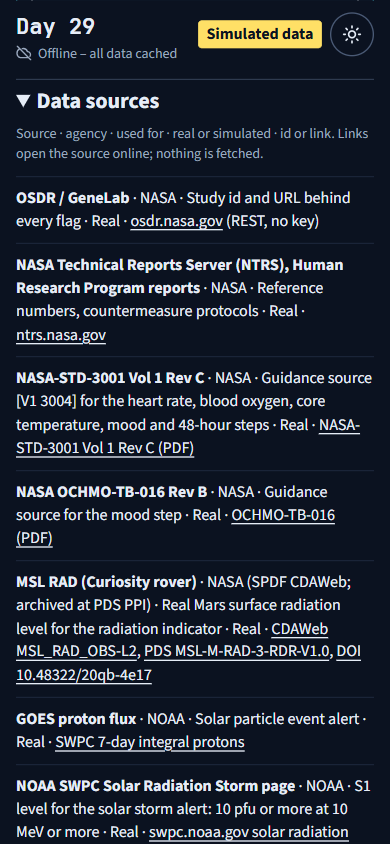
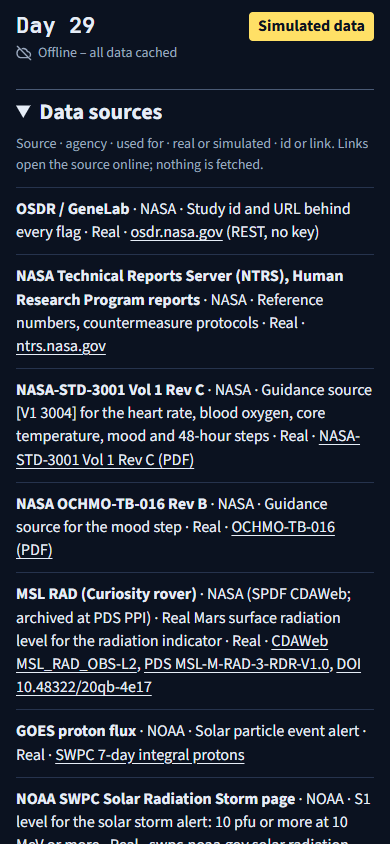
Dark only: theme switch and light palette removed; dark screenshots retaken, light deleted

diff --git a/index.html b/index.html
@@ -8,9 +8,9 @@
 <link rel="icon" href="data:,">
 <link rel="preload" href="fonts/source-sans-3-latin-wght-normal.woff2?v=fe93b8f82d" as="font" type="font/woff2" crossorigin>
 <link rel="preload" href="fonts/jb-mono-regular.woff2?v=366a644383" as="font" type="font/woff2" crossorigin>
-<link rel="stylesheet" href="tokens.css?v=3c1d51d7bf">
+<link rel="stylesheet" href="tokens.css?v=482f5bfe40">
 <script src="errors.js?v=8cd9c76036"></script>
-<script src="theme.js?v=bb3d7a5525"></script>
+<script src="theme.js?v=01a88a6408"></script>
 <style>
 * { box-sizing: border-box; }
 html { -webkit-text-size-adjust: 100%; }
@@ -45,12 +45,6 @@ h1[tabindex]:focus { outline: none; }
 .top-right { display: flex; align-items: center; gap: 8px; }
 /* Big enough to read in a screen recording. */
 .sim { padding: 2px 8px; border: 1px solid var(--sim-border); border-radius: 4px; background: var(--sim); color: var(--sim-ink); font-size: 16px; font-weight: 700; }
-.theme-btn {
-  display: flex; align-items: center; justify-content: center; width: 44px; height: 44px; padding: 0;
-  border: 1.5px solid var(--strong); border-radius: 50%; background: none; color: var(--ink); cursor: pointer;
-}
-.theme-btn svg { width: 20px; height: 20px; }
-:root[data-theme="dark"] .i-moon, :root:not([data-theme="dark"]) .i-sun { display: none; } /* sun = go light */
 main { max-width: 480px; margin: 0 auto; padding: 0 16px 56px; }
 h1 { margin: 12px 0 8px; font-size: 30px; line-height: 1.2; font-weight: 700; }
 h2 { margin: 24px 0 4px; font-size: 22px; line-height: 1.25; font-weight: 700; }
@@ -309,10 +303,6 @@ fieldset { border: 0; padding: 0; margin: 28px 0 0; min-width: 0; }
   <span class="top-right">
     <span class="sim">Simulated data</span>
     <span id="b1-chip" class="chip" hidden></span>
-    <button id="theme-btn" class="theme-btn" type="button" aria-label="Switch theme">
-      <svg class="i-sun" viewBox="0 0 24 24" fill="none" stroke="currentColor" stroke-width="2" stroke-linecap="round" aria-hidden="true"><circle cx="12" cy="12" r="4"/><path d="M12 2v2M12 20v2M4.9 4.9l1.4 1.4M17.7 17.7l1.4 1.4M2 12h2M20 12h2M4.9 19.1l1.4-1.4M17.7 6.3l1.4-1.4"/></svg>
-      <svg class="i-moon" viewBox="0 0 24 24" fill="none" stroke="currentColor" stroke-width="2" stroke-linejoin="round" aria-hidden="true"><path d="M21 12.8A9 9 0 1 1 11.2 3a7 7 0 0 0 9.8 9.8z"/></svg>
-    </button>
   </span>
 </header>
 <main>
@@ -670,6 +660,6 @@ fieldset { border: 0; padding: 0; margin: 28px 0 0; min-width: 0; }
 <script src="spe.js?v=8dc481d0f5"></script>
 <script src="reaction.js?v=0c373ca889"></script>
 <script src="store.js?v=cb99d76b39"></script>
-<script src="app.js?v=33904779bc"></script>
+<script src="app.js?v=b91d9713e2"></script>
 </body>
 </html>

diff --git a/theme.js b/theme.js
@@ -1,19 +1,11 @@
 "use strict";
-// Light/Dark theme. A choice saved on this device wins; with none, the page is dark during the crew's
-// planned sleep window and light outside it. Loaded in <head> so the first paint is already in the right
-// theme. Storage can be blocked (private mode, settings): then the choice lasts until the page closes.
+// The page is dark only (Hrishin, 11 Nov 2026): web/tokens.css has one palette, so nothing here picks a theme,
+// reads the device clock for it or reads a saved choice. What is left is the simulated crew schedule for the
+// daily check prompt on the first screen.
 (function (root) {
-  // Simulated crew schedule, not a NASA figure: planned sleep window 22:00 to 06:00, device local time.
-  const SLEEP_START_HOUR = 22, SLEEP_END_HOUR = 6;
-  const KEY = "baseline-theme";
+  // Simulated crew schedule, not a NASA figure: planned sleep window ends 06:00, device local time.
+  const SLEEP_END_HOUR = 6;
 
-  const byClock = (date) => {
-    const h = date.getHours();
-    return h >= SLEEP_START_HOUR || h < SLEEP_END_HOUR ? "dark" : "light";
-  };
-  function saved() {
-    try { const t = localStorage.getItem(KEY); return t === "light" || t === "dark" ? t : null; } catch (e) { return null; }
-  }
   // The daily check prompt on the first screen, from the same schedule. saved: the checks on this device (Store.load()),
   // empty when storage is blocked. Local dates, because saved_at is in UTC. Worked out when the screen is drawn: no timer.
   function dailyLine(now, saved) {
@@ -21,16 +13,8 @@
     if (now.getHours() < SLEEP_END_HOUR) return `Next daily check: ${String(SLEEP_END_HOUR).padStart(2, "0")}:00 (after the planned sleep window).`;
     return "Today's daily check is due now.";
   }
-  const current = () => document.documentElement.getAttribute("data-theme");
-  function set(theme) {
-    document.documentElement.setAttribute("data-theme", theme);
-    try { localStorage.setItem(KEY, theme); } catch (e) { /* storage blocked: keep it for this visit only */ }
-  }
 
-  const api = { SLEEP_START_HOUR, SLEEP_END_HOUR, byClock, dailyLine, current, set };
+  const api = { SLEEP_END_HOUR, dailyLine };
   if (typeof module === "object" && module.exports) module.exports = api;
-  else {
-    root.Theme = api;
-    document.documentElement.setAttribute("data-theme", saved() || byClock(new Date()));
-  }
+  else root.Theme = api;
 })(this);

diff --git a/tokens.css b/tokens.css
@@ -1,6 +1,6 @@
-/* Design tokens: the two palettes and two fonts from the final canvas (docs/DESIGN_BRIEF.md "Global rules").
-   web/theme.js sets data-theme on <html>; plain :root is the light palette in case that script never runs.
-   Every variable index.html or app.js uses must be defined in both themes (tests/test_web.py checks). */
+/* Design tokens: the dark palette and two fonts from the final canvas (docs/DESIGN_BRIEF.md "Global rules").
+   Dark only (Hrishin, 11 Nov 2026): one palette on plain :root, no light palette, nothing switches it.
+   Every variable index.html or app.js uses must be defined here (tests/test_web.py checks). */
 @font-face {
   font-family: "Source Sans 3";
   src: url("fonts/source-sans-3-latin-wght-normal.woff2?v=fe93b8f82d") format("woff2");
@@ -20,34 +20,8 @@
   font-display: swap;
 }
 
-/* Light – day mode (the original app palette). */
-:root, :root[data-theme="light"] {
-  color-scheme: light;
-  --sans: "Source Sans 3", system-ui, sans-serif;
-  --mono: "JetBrains Mono", ui-monospace, monospace;
-  --scrub: #E6ECE8;        /* ground */
-  --ink: #16221E;          /* text, primary button */
-  --quiet: #52625B;
-  --rule: #AEBDB5;
-  --band: #C5D3CA;         /* usual-range band */
-  --flag: #D4470C;
-  --sim: #FFF1A8;          /* simulated-data badge */
-  --sim-ink: #16221E;
-  --sim-border: #16221E;
-  --error: #FCE1DE;        /* alert card */
-  --real: #FFFFFF;         /* real-data box */
-  --real-border: #52625B;
-  --real-head: #16221E;
-  --card: transparent;
-  --card-border: #AEBDB5;
-  --strong: #52625B;       /* control borders */
-  --glow: none;
-  --rt-go: transparent;    /* reaction field while the circle shows */
-  --rt-dot: #16221E;
-}
-
 /* Dark – mission console. */
-:root[data-theme="dark"] {
+:root {
   color-scheme: dark;
   --sans: "Source Sans 3", system-ui, sans-serif;
   --mono: "JetBrains Mono", ui-monospace, monospace;

diff --git a/app.js b/app.js
@@ -426,19 +426,6 @@ function trendChart(canvas, signal, full, { bottom, tick, learning, words = () =
   });
 }
 
-// Light/Dark switch in the header (web/theme.js picks the first theme). Charts read the colours when drawn.
-function themeLabel() {
-  $("theme-btn").setAttribute("aria-label", Theme.current() === "dark" ? "Switch to light theme" : "Switch to dark theme");
-}
-themeLabel();
-$("theme-btn").addEventListener("click", () => {
-  Theme.set(Theme.current() === "dark" ? "light" : "dark");
-  themeLabel();
-  if (Object.keys(state.charts).length) CHANNELS.forEach(drawChannel);
-  if ($("skylab").open) drawSkylab();
-  if (!$("maths").hidden) drawMaths(state.current);
-});
-
 // 7 days · 30 days switch (design P7b). Not saved on the device; "Start the demo again" sets it back to 30 days.
 function setRange(days) {
   state.range = days;
